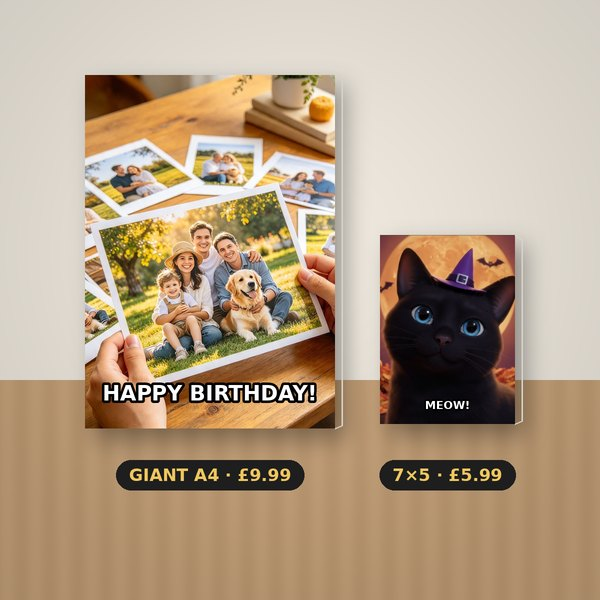
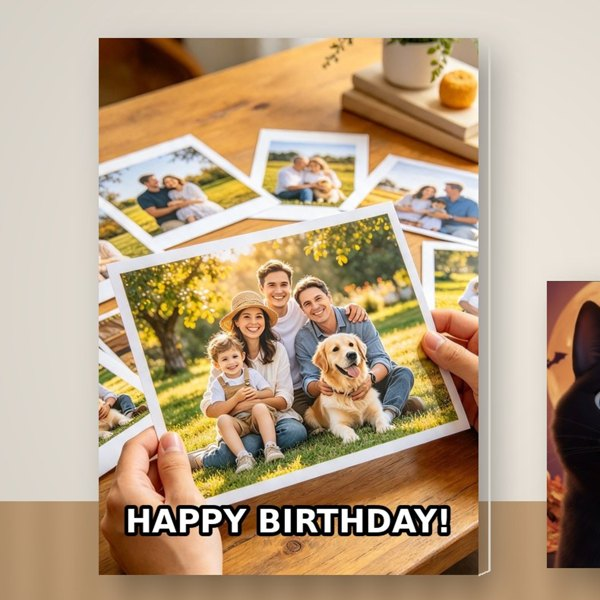
Remove last Halloween images (witch-hat cat on magic mug and greeting cards)
Claude-Session: https://claude.ai/code/session_01HbW6DW9iCZ4LUUMQkhEPyg

diff --git a/giveaway.html b/giveaway.html
@@ -92,10 +92,10 @@
   <h2 style="margin-top:0">Visit our gift shop 🎁</h2>
   <p style="margin:0">ONJJEM is our online shop for personalised photo gifts. Upload a photo, see your gift before you pay, and we print it and post it to your door.</p>
   <div class="shop-grid">
-    <a href="/mug"><img src="/magic-mug-cat.jpg" alt="Personalised photo mug" loading="lazy"><span>Photo mugs</span></a>
+    <a href="/mug"><img src="/magic-mug-cat.jpg?v=9" alt="Personalised photo mug" loading="lazy"><span>Photo mugs</span></a>
     <a href="/cushions"><img src="/cushion-mockup.jpg" alt="Personalised photo cushion" loading="lazy"><span>Cushions</span></a>
     <a href="/christmas"><img src="/christmas-hero.jpg" alt="Personalised Christmas photo gifts" loading="lazy"><span>Christmas gifts</span></a>
-    <a href="/playing-cards"><img src="/playing-cards-hero.jpg" alt="Personalised photo playing cards" loading="lazy"><span>Playing cards</span></a>
+    <a href="/playing-cards"><img src="/playing-cards-hero.jpg?v=9" alt="Personalised photo playing cards" loading="lazy"><span>Playing cards</span></a>
   </div>
   <a class="btn go" href="/">Shop all gifts at onjjem.com →</a>
   <a class="btn try" href="/cartoon">See my photo as a cartoon FREE ✨</a>

diff --git a/playing-cards.html b/playing-cards.html
@@ -9,7 +9,7 @@
 <link rel="canonical" href="https://onjjem.com/playing-cards">
 <meta property="og:title" content="Personalised Photo Playing Cards | ONJJEM">
 <meta property="og:description" content="Your family, pet or cartoon printed on the back of a full deck of 54 playing cards. £15.99 with free UK delivery.">
-<meta property="og:image" content="https://onjjem.com/playing-cards-hero.jpg?v=2">
+<meta property="og:image" content="https://onjjem.com/playing-cards-hero.jpg?v=9">
 <script async src="https://www.googletagmanager.com/gtag/js?id=G-3L30Q5L3MW"></script>
 <script>
   window.dataLayer = window.dataLayer || [];
@@ -33,7 +33,7 @@ window.PAGE = {
   kicker: "Games night, made personal",
   title: "Your photo on the back of a deck of playing cards",
   sub: "A full deck of 54 classic playing cards with your photo, your pet or a cartoon of the family printed on the back of every card. A brilliant stocking filler and a gift they'll actually use at every games night.",
-  heroImg: "/playing-cards-hero.jpg?v=2",
+  heroImg: "/playing-cards-hero.jpg?v=9",
   heroAlt: "Personalised playing cards with family photos",
   ticks: [
     "Your picture on the back of every card",

diff --git a/mug.html b/mug.html
@@ -9,7 +9,7 @@
 <link rel="canonical" href="https://onjjem.com/mug">
 <meta property="og:title" content="Personalised Photo &amp; Cartoon Mugs | ONJJEM">
 <meta property="og:description" content="Your photo or cartoon on a mug. Magic Reveal photo mug £13.99 (was £17.99), photo mug £13.99. Free UK delivery.">
-<meta property="og:image" content="https://onjjem.com/magic-mug-cat.jpg?v=1">
+<meta property="og:image" content="https://onjjem.com/magic-mug-cat.jpg?v=9">
 <script async src="https://www.googletagmanager.com/gtag/js?id=G-3L30Q5L3MW"></script>
 <script>
   window.dataLayer = window.dataLayer || [];
@@ -33,7 +33,7 @@ window.PAGE = {
   kicker: "The gift they'll use every day",
   title: "Your photo on a mug — or as a cartoon",
   sub: "Your dog, your kids, your family — printed on a mug they'll smile at every morning. Try our Magic Reveal mug: it looks plain black until the tea goes in, then their photo magically appears.",
-  heroImg: "/magic-mug-cat.jpg?v=1",
+  heroImg: "/magic-mug-still.jpg?v=2",
   heroAlt: "Magic Reveal mug revealing a photo of pets when hot",
   ticks: [
     "Free cartoon preview of your photo — see it before you pay",

diff --git a/cards.html b/cards.html
@@ -9,7 +9,7 @@
 <link rel="canonical" href="https://onjjem.com/cards">
 <meta property="og:title" content="Personalised Photo Greeting Cards &amp; Giant Cards | ONJJEM">
 <meta property="og:description" content="Your photo or cartoon on a greeting card, with your words on the front. Giant A4 cards £9.99, 7×5 cards £5.99. Free UK delivery.">
-<meta property="og:image" content="https://onjjem.com/cards-hero.jpg?v=2">
+<meta property="og:image" content="https://onjjem.com/cards-hero.jpg?v=9">
 <script async src="https://www.googletagmanager.com/gtag/js?id=G-3L30Q5L3MW"></script>
 <script>
   window.dataLayer = window.dataLayer || [];
@@ -33,7 +33,7 @@ window.PAGE = {
   kicker: "New · Personalised cards",
   title: "Their face on a GIANT birthday card",
   sub: "Your photo, your pet or a free cartoon on the front of a greeting card, with your own words. Our giant A4 card is the one everybody laughs at, keeps and stands on the shelf.",
-  heroImg: "/cards-hero.jpg?v=1",
+  heroImg: "/cards-hero.jpg?v=9",
   heroAlt: "Giant personalised greeting card with a family photo",
   ticks: [
     "Your photo or cartoon on the front, with your own words",

diff --git a/cartoon.html b/cartoon.html
@@ -21,13 +21,13 @@
 <meta name="description" content="Upload your photo and see it as a cartoon, FREE. No obligation. Free UK delivery if you put it on a gift.">
 <meta property="og:title" content="See your pet as a cartoon FREE | ONJJEM">
 <meta property="og:description" content="Upload a photo and see it as a cartoon in seconds. Put it on a Magic Reveal mug: pour in a hot drink and it appears.">
-<meta property="og:image" content="https://onjjem.com/magic-mug-cat.jpg?v=2">
+<meta property="og:image" content="https://onjjem.com/magic-mug-cat.jpg?v=9">
 <meta property="og:image:width" content="800">
 <meta property="og:image:height" content="800">
 <meta property="og:url" content="https://onjjem.com/cartoon">
 <meta property="og:type" content="website">
 <meta name="twitter:card" content="summary_large_image">
-<meta name="twitter:image" content="https://onjjem.com/magic-mug-cat.jpg?v=2">
+<meta name="twitter:image" content="https://onjjem.com/magic-mug-cat.jpg?v=9">
 <link rel="canonical" href="https://onjjem.com/cartoon">
 <link rel="stylesheet" href="/cartoonify-shared.css?v=20261005a">
 <style>

diff --git a/tiktok.html b/tiktok.html
@@ -45,7 +45,7 @@
     </div>
     <h3 class="gift-group">🏠 For the home</h3>
     <div class="tiles">
-      <a class="tile" href="/mug"><img src="/magic-mug-cat.jpg?v=1" alt="" loading="lazy"><div class="t-body"><h3>✨ Magic Reveal mugs &amp; photo mugs</h3><div class="t-price">From £13.99</div></div></a>
+      <a class="tile" href="/mug"><img src="/magic-mug-cat.jpg?v=9" alt="" loading="lazy"><div class="t-body"><h3>✨ Magic Reveal mugs &amp; photo mugs</h3><div class="t-price">From £13.99</div></div></a>
       <a class="tile" href="/magnets"><img src="/products/IMG_8533.jpeg" alt="" loading="lazy"><div class="t-body"><h3>Fridge magnets</h3><div class="t-price">From £7.49</div></div></a>
       <a class="tile" href="/cushions"><img src="/cushion-mockup.jpg?v=3" alt="" loading="lazy"><div class="t-body"><h3>Cushions</h3><div class="t-price">From £23.49</div></div></a>
       <a class="tile" href="/cushions"><img src="/towel-mockup.jpg?v=2" alt="" loading="lazy"><div class="t-body"><h3>Towels</h3><div class="t-price">From £31.99</div></div></a>

diff --git a/christmas-giveaway.html b/christmas-giveaway.html
@@ -93,7 +93,7 @@
     <a href="/christmas-sweatshirt"><img src="/christmas-sweatshirt-hero.jpg" alt="Christmas sweatshirts" loading="lazy"><span>Christmas sweatshirts</span></a>
     <a href="/bauble"><img src="/bauble-hero.jpg" alt="Photo bauble" loading="lazy"><span>Photo baubles</span></a>
     <a href="/blanket"><img src="/products/IMG_8759.jpeg" alt="Photo blankets" loading="lazy"><span>Photo blankets</span></a>
-    <a href="/mug"><img src="/magic-mug-cat.jpg" alt="Magic mugs" loading="lazy"><span>Magic mugs</span></a>
+    <a href="/mug"><img src="/magic-mug-cat.jpg?v=9" alt="Magic mugs" loading="lazy"><span>Magic mugs</span></a>
   </div>
   <a class="btn go" href="/christmas">See all Christmas gifts →</a>
 </div>
